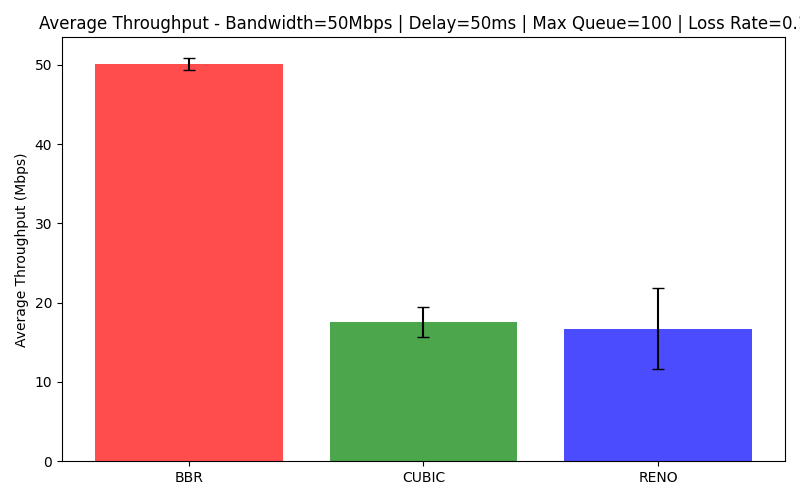
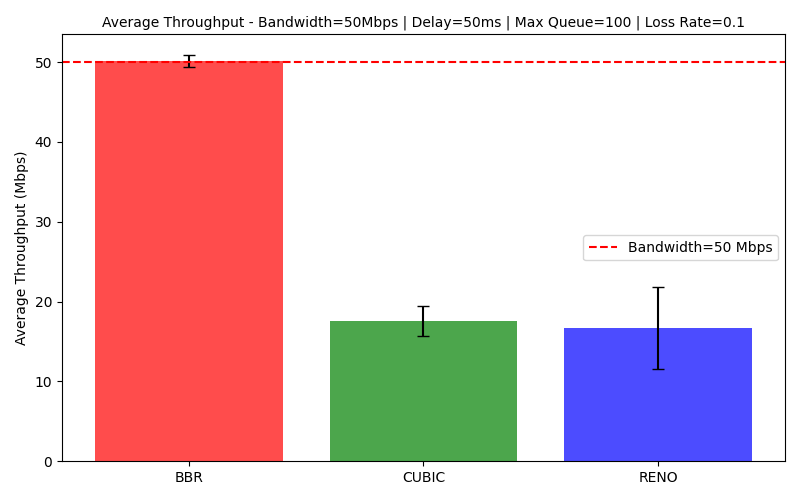
Add line on throughput graphs and update readme

diff --git a/graph_experiments_summary.py b/graph_experiments_summary.py
@@ -156,10 +156,15 @@ for key, cc_runs in experiments.items():
     ax_tbar.bar(x, means, yerr=stds,
                 color=[colors.get(n, "black") for n in names],
                 alpha=0.7, capsize=4)
+
     ax_tbar.set_xticks(x)
     ax_tbar.set_xticklabels(names)
     ax_tbar.set_ylabel("Average Throughput (Mbps)")
-    ax_tbar.set_title(f"Average Throughput - Bandwidth={bw}Mbps | Delay={delay} | Max Queue={queue} | Loss Rate={loss}")
+    ax_tbar.set_title(f"Average Throughput - Bandwidth={bw}Mbps | Delay={delay} | Max Queue={queue} | Loss Rate={loss}",fontsize=10)
+
+    # Dotted line at bandwidth
+    ax_tbar.axhline(y=float(bw), color="red", linestyle="--", linewidth=1.5, label=f"Bandwidth={bw} Mbps")
+    ax_tbar.legend()
 
     outpath_tbar = f"{FIGURES_SUMMARY}{EXPERIMENT}throughput_bar.png"
     fig_tbar.tight_layout()

diff --git a/README.md b/README.md
@@ -1,23 +1,30 @@
 # CSCE952FinalProject
 
 ## Steps to run:
+
 ### 1. Set up ubuntu virtual machine
+
 a. https://ubuntu.com/download/desktop  
 b. Download VirtualBox  
 c. Create new vm with iso you downloaded  
 d. Start up virtual machine  
 e. run:  
-    i. ```sudo apt install git```  
-f. Clone this repo  
+ i. `sudo apt install git`  
+f. Clone this repo
+
 ### 2. Run:
-```chmod +x setup.sh```  
-```./setup.sh```  
-```make run```  
-```make analyze```  
+
+`chmod +x setup.sh`  
+`./setup.sh`  
+`make run`  
+`make analyze`
+
 ### 3. View results:
+
 Access results/ and figures/ directories
 
 ## Project Structure:
+
 cc-project/  
 │  
 ├── setup.sh  
@@ -26,7 +33,8 @@ cc-project/
 ├── topo_cc.py  
 ├── run_experiments.py  
 ├── parse_iperf.py  
-├── analyze_results.py  
+├── graph_experiments_each.py
+├── graph_experiments_summary.py
 │  
-├── results/      ← auto-generated  
-└── figures/      ← auto-generated  
+├── results/ ← auto-generated  
+└── figures/ ← auto-generated
